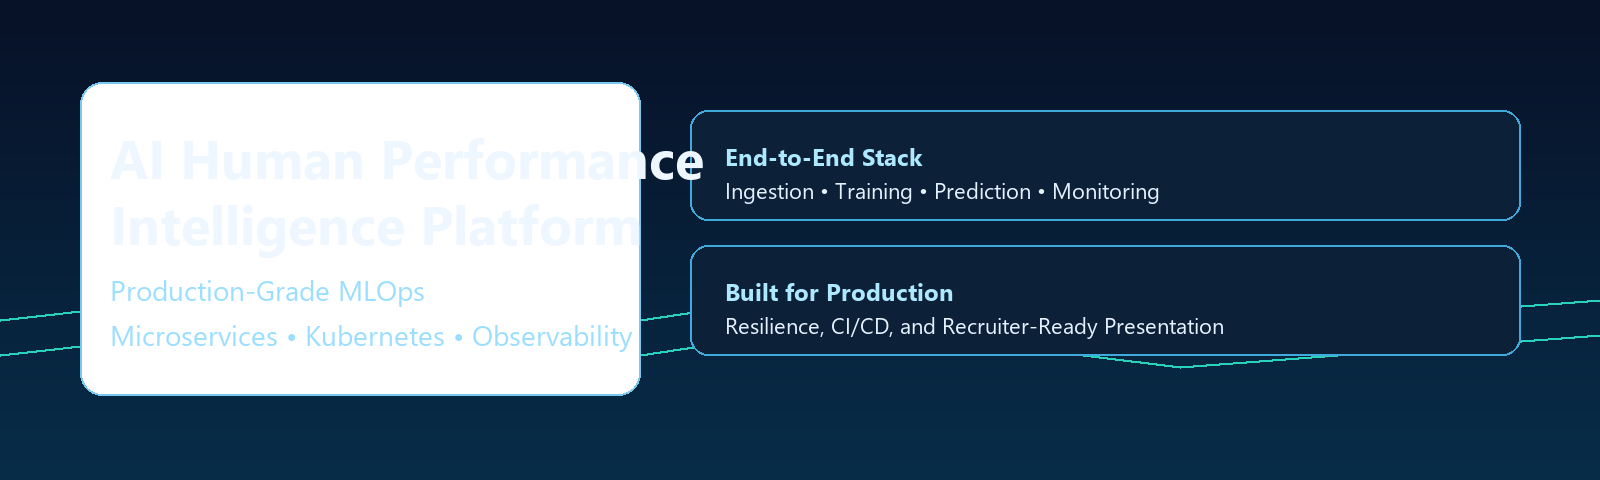
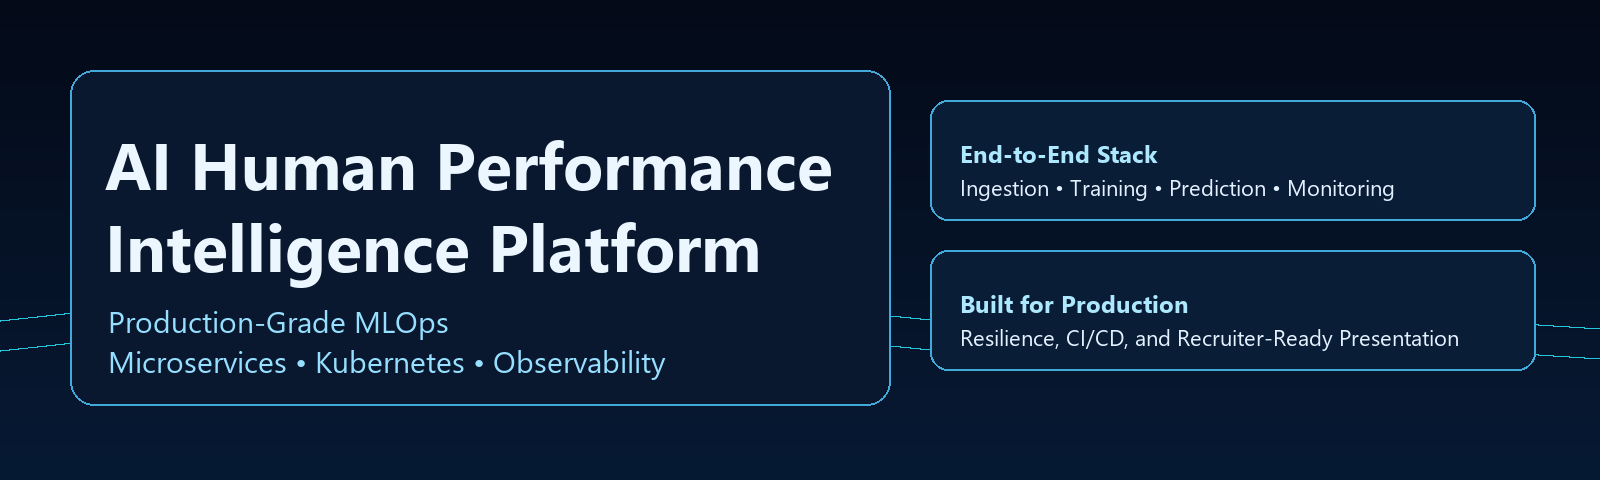
Fix asset overlap and deliver darker professional visuals

Changed region(s): [[0.0, 0.125, 1.0, 0.8438], [0.9375, 0.625, 1.0, 0.6562], [0.9375, 0.4375, 0.9688, 0.4688]]

diff --git a/scripts/generate_professional_assets.py b/scripts/generate_professional_assets.py
@@ -56,40 +56,48 @@ def rounded_rect(draw: ImageDraw.ImageDraw, xy, r, fill, outline=None, width=1):
 
 def generate_banner() -> None:
     size = (1600, 480)
-    base = make_gradient(size, (7, 17, 39), (8, 45, 73))
+    base = make_gradient(size, (4, 10, 24), (7, 26, 52))
     draw = ImageDraw.Draw(base)
 
     # Decorative lines
-    accent = (40, 210, 190)
-    for y_off in [320, 355]:
-        points = [(0, y_off), (250, y_off - 28), (520, y_off + 18), (840, y_off - 30), (1180, y_off + 12), (1600, y_off - 20)]
-        draw.line(points, fill=accent, width=3)
+    accent = (38, 198, 218)
+    for y_off in [320, 350]:
+        points = [
+            (0, y_off),
+            (220, y_off - 24),
+            (450, y_off + 10),
+            (760, y_off - 18),
+            (1060, y_off + 12),
+            (1320, y_off - 10),
+            (1600, y_off + 8),
+        ]
+        draw.line(points, fill=accent, width=2)
 
-    # Cards
-    rounded_rect(draw, (80, 82, 640, 395), 22, fill=(255, 255, 255, 18), outline=(120, 200, 240), width=2)
-    rounded_rect(draw, (690, 110, 1520, 220), 18, fill=(12, 32, 56), outline=(65, 170, 220), width=2)
-    rounded_rect(draw, (690, 245, 1520, 355), 18, fill=(12, 32, 56), outline=(65, 170, 220), width=2)
+    # Left and right dark cards (no transparency to avoid overlap artifacts)
+    rounded_rect(draw, (70, 70, 890, 405), 24, fill=(9, 24, 46), outline=(66, 170, 219), width=2)
+    rounded_rect(draw, (930, 100, 1535, 220), 18, fill=(9, 29, 54), outline=(66, 170, 219), width=2)
+    rounded_rect(draw, (930, 250, 1535, 370), 18, fill=(9, 29, 54), outline=(66, 170, 219), width=2)
 
-    title_font = load_font(54, bold=True)
-    subtitle_font = load_font(28)
+    title_font = load_font(66, bold=True)
+    subtitle_font = load_font(30)
     small_font = load_font(24, bold=True)
     body_font = load_font(22)
 
-    draw.text((110, 120), "AI Human Performance", font=title_font, fill=(238, 246, 255))
-    draw.text((110, 186), "Intelligence Platform", font=title_font, fill=(238, 246, 255))
-    draw.text((110, 270), "Production-Grade MLOps", font=subtitle_font, fill=(155, 222, 255))
-    draw.text((110, 315), "Microservices • Kubernetes • Observability", font=subtitle_font, fill=(155, 222, 255))
+    draw.text((105, 118), "AI Human Performance", font=title_font, fill=(236, 246, 255))
+    draw.text((105, 200), "Intelligence Platform", font=title_font, fill=(236, 246, 255))
+    draw.text((108, 300), "Production-Grade MLOps", font=subtitle_font, fill=(151, 223, 255))
+    draw.text((108, 340), "Microservices • Kubernetes • Observability", font=subtitle_font, fill=(151, 223, 255))
 
-    draw.text((725, 140), "End-to-End Stack", font=small_font, fill=(173, 232, 255))
-    draw.text((725, 175), "Ingestion • Training • Prediction • Monitoring", font=body_font, fill=(228, 241, 255))
-    draw.text((725, 275), "Built for Production", font=small_font, fill=(173, 232, 255))
-    draw.text((725, 310), "Resilience, CI/CD, and Recruiter-Ready Presentation", font=body_font, fill=(228, 241, 255))
+    draw.text((960, 137), "End-to-End Stack", font=small_font, fill=(173, 232, 255))
+    draw.text((960, 172), "Ingestion • Training • Prediction • Monitoring", font=body_font, fill=(228, 241, 255))
+    draw.text((960, 287), "Built for Production", font=small_font, fill=(173, 232, 255))
+    draw.text((960, 322), "Resilience, CI/CD, and Recruiter-Ready Presentation", font=body_font, fill=(228, 241, 255))
 
     base.save(ASSETS / "banner-pro.png", format="PNG")
 
 
 def dashboard_slide(title: str, subtitle: str, metrics: list[tuple[str, str]], chart_color: tuple[int, int, int]) -> Image.Image:
-    img = Image.new("RGB", (1280, 720), (245, 248, 252))
+    img = Image.new("RGB", (1280, 720), (7, 16, 34))
     draw = ImageDraw.Draw(img)
 
     title_font = load_font(46, bold=True)
@@ -98,21 +106,21 @@ def dashboard_slide(title: str, subtitle: str, metrics: list[tuple[str, str]], c
     kpi_value = load_font(30, bold=True)
 
     # Header
-    rounded_rect(draw, (40, 28, 1240, 118), 14, fill=(12, 32, 56))
+    rounded_rect(draw, (40, 28, 1240, 118), 14, fill=(11, 34, 63), outline=(45, 110, 170), width=2)
     draw.text((70, 55), title, font=title_font, fill=(236, 244, 255))
-    draw.text((70, 94), subtitle, font=sub_font, fill=(172, 220, 246))
+    draw.text((70, 104), subtitle, font=sub_font, fill=(172, 220, 246))
 
     # KPI cards
     x = 52
     for label, value in metrics:
-        rounded_rect(draw, (x, 148, x + 280, 288), 16, fill=(255, 255, 255), outline=(214, 226, 241), width=2)
-        draw.text((x + 20, 175), label, font=kpi_title, fill=(66, 90, 120))
-        draw.text((x + 20, 220), value, font=kpi_value, fill=(18, 39, 68))
+        rounded_rect(draw, (x, 148, x + 280, 288), 16, fill=(14, 38, 68), outline=(58, 125, 182), width=2)
+        draw.text((x + 20, 175), label, font=kpi_title, fill=(171, 209, 239))
+        draw.text((x + 20, 220), value, font=kpi_value, fill=(233, 245, 255))
         x += 300
 
     # Chart area mock
-    rounded_rect(draw, (52, 318, 1228, 682), 16, fill=(255, 255, 255), outline=(214, 226, 241), width=2)
-    draw.text((80, 346), "Trend Overview", font=kpi_title, fill=(66, 90, 120))
+    rounded_rect(draw, (52, 318, 1228, 682), 16, fill=(10, 30, 55), outline=(58, 125, 182), width=2)
+    draw.text((80, 346), "Trend Overview", font=kpi_title, fill=(171, 209, 239))
 
     points = [(100, 620), (260, 560), (420, 590), (580, 510), (760, 535), (940, 470), (1120, 500)]
     draw.line(points, fill=chart_color, width=7)
